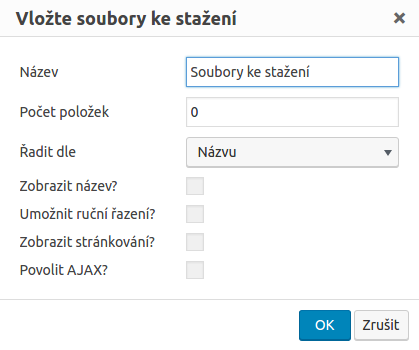
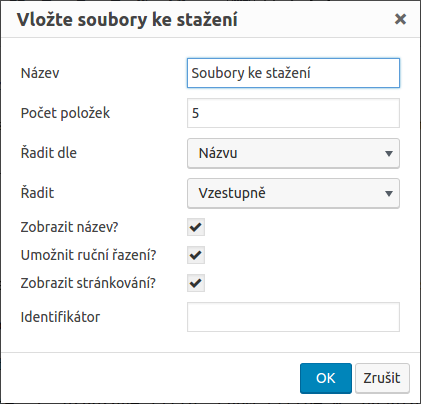
Fixed issue #6

diff --git a/js/tinymce-plugin-shortcode-1.js b/js/tinymce-plugin-shortcode-1.js
@@ -7,65 +7,71 @@
  */
 
 (function() {
-    tinymce.PluginManager.add('odwpdp_shortcode_1', function( editor, url ) {
+    tinymce.PluginManager.add( 'odwpdp_shortcode_1', function( editor, url ) {
         editor.addButton( 'odwpdp_shortcode_1', {
-            tooltip: editor.getLang('odwpdp.btn_tooltip'),
+            tooltip: editor.getLang( 'odwpdp.btn_tooltip' ),
             icon: 'icon odwpdp_shortcode_1-icon',
             onclick: function() {
                 editor.windowManager.open( {
-                    title: editor.getLang('odwpdp.dlg_title'),
+                    title: editor.getLang( 'odwpdp.dlg_title' ),
                     body: [{
                         type: 'textbox',
                         name: 'title',
-                        label: editor.getLang('odwpdp.input1_lbl'),
-                        value: editor.getLang('odwpdp.input1_val')
+                        label: editor.getLang( 'odwpdp.input1_lbl' ),
+                        value: editor.getLang( 'odwpdp.input1_val' )
                     }, {
                         type: 'textbox',
                         subtype: 'number',
                         name: 'count',
-                        label: editor.getLang('odwpdp.input2_lbl'),
+                        label: editor.getLang( 'odwpdp.input2_lbl' ),
                         value: 5
                     }, {
                         type: 'listbox',
                         name: 'orderby',
-                        label: editor.getLang('odwpdp.input3_lbl'),
+                        label: editor.getLang( 'odwpdp.input3_lbl' ),
                         value: 'title',
                         values: [
-                            { text: editor.getLang('odwpdp.input3_opt1'), value: 'title' },
-                            { text: editor.getLang('odwpdp.input3_opt2'), value: 'puton_date' },
-                            { text: editor.getLang('odwpdp.input3_opt3'), value: 'putoff_date' },
-                            { text: editor.getLang('odwpdp.input3_opt4'), value: 'count' }
+                            { text: editor.getLang( 'odwpdp.input3_opt1' ), value: 'title' },
+                            { text: editor.getLang( 'odwpdp.input3_opt2' ), value: 'puton_date' },
+                            { text: editor.getLang( 'odwpdp.input3_opt3' ), value: 'putoff_date' },
+                            { text: editor.getLang( 'odwpdp.input3_opt4' ), value: 'count' }
                         ]
                     }, {
                         type: 'listbox',
                         name: 'order',
-                        label: editor.getLang('odwpdp.input4_lbl'),
+                        label: editor.getLang( 'odwpdp.input4_lbl' ),
                         value: 'ASC',
                         values: [
-                            { text: editor.getLang('odwpdp.input4_opt1'), value: 'DESC' },
-                            { text: editor.getLang('odwpdp.input4_opt2'), value: 'ASC' }
+                            { text: editor.getLang( 'odwpdp.input4_opt1' ), value: 'DESC' },
+                            { text: editor.getLang( 'odwpdp.input4_opt2' ), value: 'ASC' }
                         ]
                     }, {
                         type: 'checkbox',
                         name: 'show_title',
-                        label: editor.getLang('odwpdp.input5_lbl'),
+                        label: editor.getLang( 'odwpdp.input5_lbl' ),
                         checked: true
                     }, {
                         type: 'checkbox',
                         name: 'enable_sort',
-                        label: editor.getLang('odwpdp.input6_lbl'),
+                        label: editor.getLang( 'odwpdp.input6_lbl' ),
                         checked: true
                     }, {
                         type: 'checkbox',
                         name: 'show_pagination',
-                        label: editor.getLang('odwpdp.input7_lbl'),
+                        label: editor.getLang( 'odwpdp.input7_lbl' ),
                         checked: true
+                    }, {
+                        type: 'textbox',
+                        name: 'id_suffix',
+                        label: editor.getLang( 'odwpdp.input8_lbl' ),
+                        value: '',
+                        placeholder: '1'
                     }],
                     onsubmit: function( e ) {
                         var ret = '[soubory_ke_stazeni';
 
-                        if( e.data.title != "" ) {
-                            ret = ret + ' title="' + e.data.title + '"';
+                        if( e.data.title != '' ) {
+                            ret += ' title="' + e.data.title + '"';
                         }
 
                         ret += Number.parseInt( e.data.count ) < 0 ? ' count="0"]' : ' count="' + e.data.count + '"';
@@ -73,6 +79,11 @@
                         ret += ' show_title="' + ( e.data.show_title === true ? '1' : '0' ) + '"';
                         ret += ' enable_sort="' + ( e.data.enable_sort === true ? '1' : '0' ) + '"';
                         ret += ' show_pagination="' + ( e.data.show_pagination === true ? '1' : '0' ) + '"';
+
+                        if( e.data.id_suffix != '' ) {
+                            ret += ' id_suffix="' + e.data.id_suffix + '"';
+                        }
+
                         ret += ']';
 
                         editor.insertContent(ret);

diff --git a/src/shortcode-1.php b/src/shortcode-1.php
@@ -38,28 +38,31 @@ if ( ! function_exists( 'odwpdp_add_shortcode_1' ) ) :
             'orderby'         => 'title',
             'order'           => 'ASC',
             'enable_sort'     => 1,
+            'id_suffix'       => '',
         ), $atts );
 
         // Sanitize attributes
-        $attrs['count'] = (int) $attrs['count'] <= 0 ? -1 : (int) $attrs['count'];
-        $attrs['show_title'] = (bool) $attrs['show_title'];
+        $attrs['count']           = (int) $attrs['count'] <= 0 ? -1 : (int) $attrs['count'];
+        $attrs['show_title']      = (bool) $attrs['show_title'];
         $attrs['show_pagination'] = (bool) $attrs['show_pagination'];
-        $attrs['enable_sort'] = (bool) $attrs['enable_sort'];
+        $attrs['enable_sort']     = (bool) $attrs['enable_sort'];
+
+        $id_suffix = filter_input( INPUT_GET, 'id_suffix' );
+        $is_same   = ( $id_suffix == $attrs['id_suffix'] );
 
         $orderby = filter_input( INPUT_GET, 'odwpdp_orderby' );
-        $order = filter_input( INPUT_GET, 'odwpdp_order' );
-        
-        $attrs['orderby'] = isset( $_GET['odwpdp_orderby'] ) ? $_GET['odwpdp_orderby'] : $attrs['orderby'];
-        $attrs['order'] = isset( $_GET['odwpdp_order'] ) ? $_GET['odwpdp_order'] : $attrs['order'];
+        $order   = filter_input( INPUT_GET, 'odwpdp_order' );
+        $attrs['orderby'] = ( ! empty( $orderby ) && $is_same ) ? $orderby : $attrs['orderby'];
+        $attrs['order']   = ( ! empty( $order ) && $is_same ) ? $order : $attrs['order'];
         $attrs['orderby'] = ! in_array( $attrs['orderby'], array_keys( odwpdp_get_avail_orderby_vals() ) ) ? 'title' : $attrs['orderby'];
-        $attrs['order'] = ! in_array( $attrs['order'], array_keys( odwpdp_get_avail_order_vals() ) ) ? 'DESC' : $attrs['order'];
+        $attrs['order']   = ! in_array( $attrs['order'], array_keys( odwpdp_get_avail_order_vals() ) ) ? 'DESC' : $attrs['order'];
 
         // Prepare query arguments
         $query_args = array();
-        $query_args['post_type'] = ODWPDP_CPT;
-        $query_args['nopaging']  = ! $attrs['show_pagination'];
+        $query_args['post_type']      = ODWPDP_CPT;
+        $query_args['nopaging']       = ! $attrs['show_pagination'];
         $query_args['posts_per_page'] = $attrs['count'];
-        $query_args['order'] = $attrs['order'];
+        $query_args['order']          = $attrs['order'];
 
         if ( $attrs['orderby'] == 'title' ) {
             $query_args['orderby'] = 'title';
@@ -67,19 +70,28 @@ if ( ! function_exists( 'odwpdp_add_shortcode_1' ) ) :
         else {
             $query_args['meta_query'] = array();
             $query_args['meta_query'][] = array(
-                'key' => 'odwpdp-metabox-1',
+                'key'  => 'odwpdp-metabox-1',
                 'type' => 'DATE'
             );
         }
 
         $odwpdp_paged = (int) filter_input( INPUT_GET, 'odwpdp_paged', FILTER_VALIDATE_INT );
-        $query_args['paged'] = max( 1, $odwpdp_paged );
+        $query_args['paged'] = $is_same ? max( 1, $odwpdp_paged ) : 1;
 
         // Create query
         $query = new WP_Query( $query_args );
 
         // Current URL
-        $current_url = home_url( add_query_arg( array(), $wp->request ) );
+        $url_params  = array();
+
+        if ( ! empty( $attrs['id_suffix'] ) ) {
+            $url_params['id_suffix'] = $attrs['id_suffix'];
+        }
+
+        $current_url = home_url( add_query_arg( $url_params, $wp->request ) );
+        if ( strpos( $current_url, '?' ) === false ) {
+            $current_url .= '?1';
+        }
 
         // Render template
         ob_start( function() {} );

diff --git a/js/tinymce-plugins-locales.php b/js/tinymce-plugins-locales.php
@@ -31,9 +31,10 @@ function odwpdp_tinymce_plugins_locales() {
         'input4_lbl'  => __( 'Řadit', ODWPDP_SLUG ),
         'input4_opt1' => __( 'Sestupně', ODWPDP_SLUG ),
         'input4_opt2' => __( 'Vzestupně', ODWPDP_SLUG ),
-        'input5_lbl' => __( 'Zobrazit název?', ODWPDP_SLUG ),
-        'input6_lbl' => __( 'Umožnit ruční řazení?', ODWPDP_SLUG ),
-        'input7_lbl' => __( 'Zobrazit stránkování?', ODWPDP_SLUG )
+        'input5_lbl'  => __( 'Zobrazit název?', ODWPDP_SLUG ),
+        'input6_lbl'  => __( 'Umožnit ruční řazení?', ODWPDP_SLUG ),
+        'input7_lbl'  => __( 'Zobrazit stránkování?', ODWPDP_SLUG ),
+        'input8_lbl'  => __( 'Identifikátor', ODWPDP_SLUG ),
     );
 
     $locale = _WP_Editors::$mce_locale;
